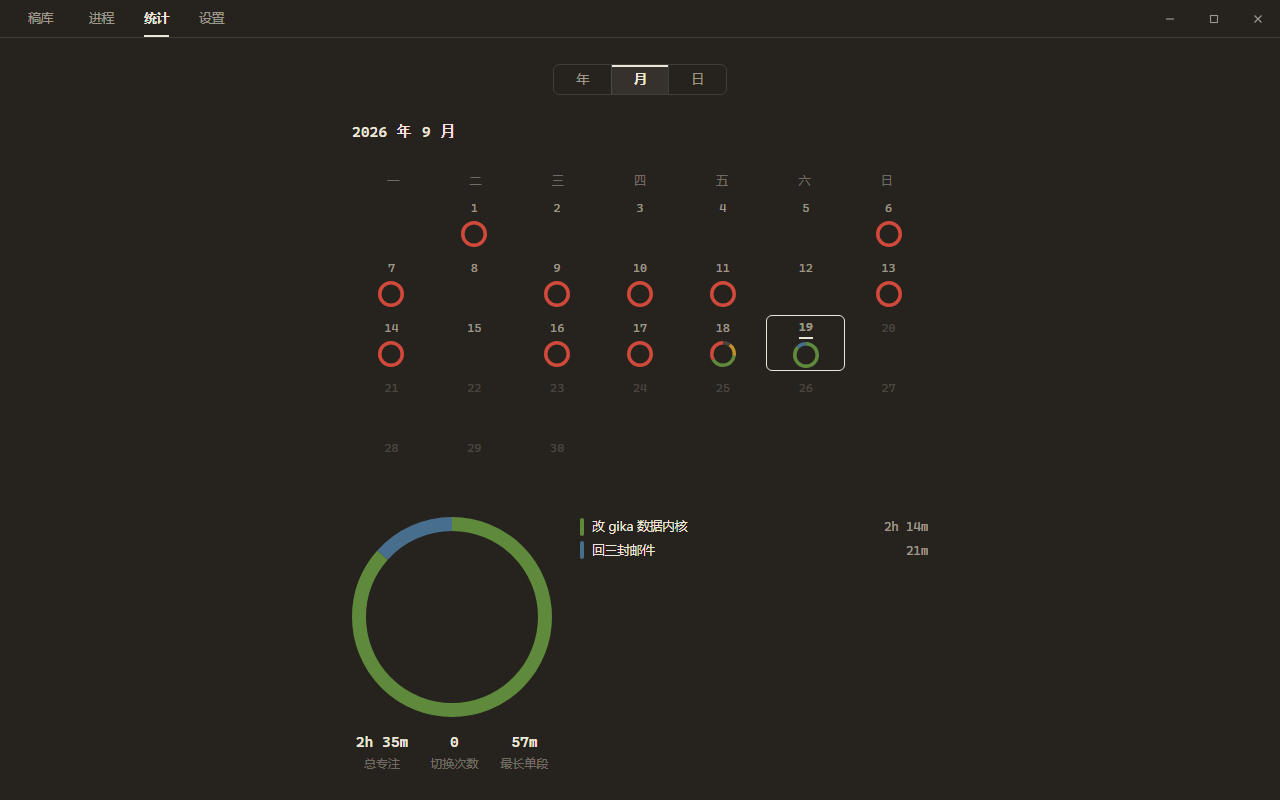
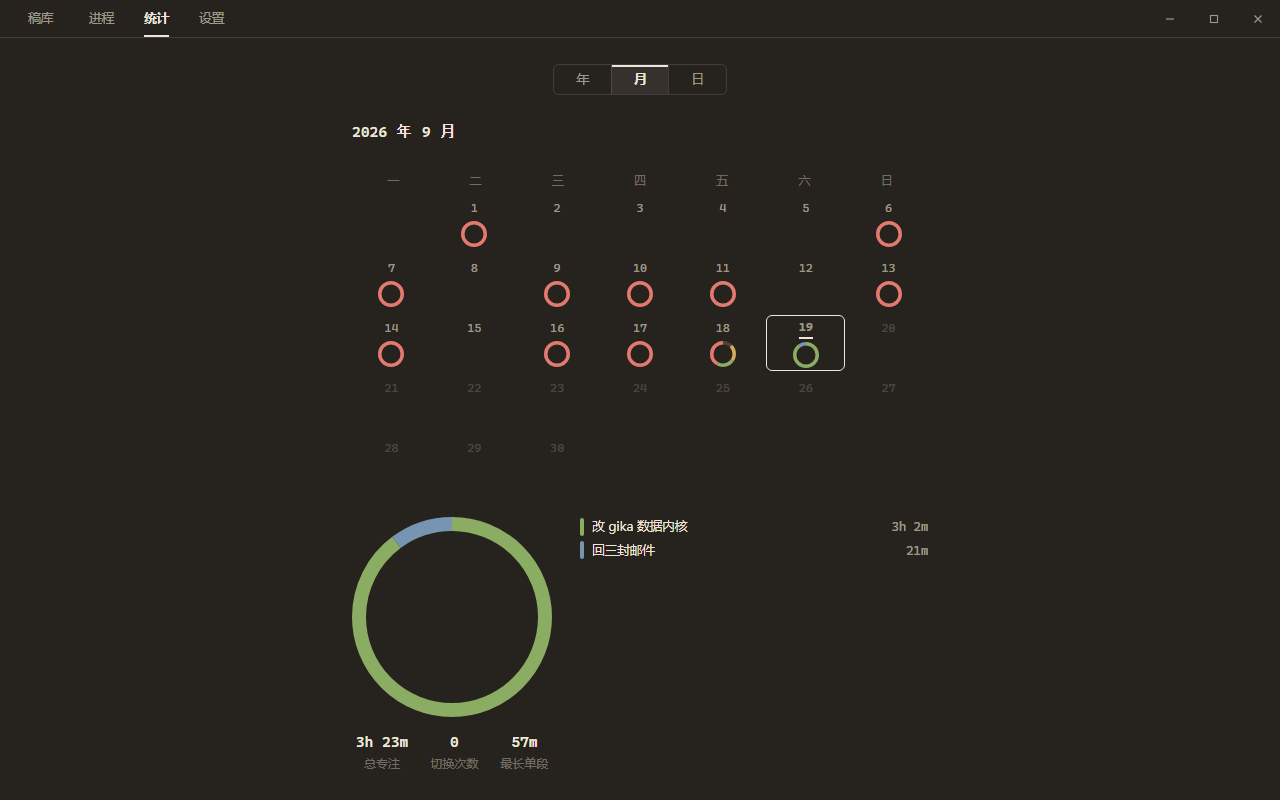
修复：色标板读生效主题单一来源（暗色截图重拍）+ 环数字等宽统一

diff --git a/src/pages/settings/SettingsPage.tsx b/src/pages/settings/SettingsPage.tsx
@@ -1,7 +1,7 @@
 import { useEffect, useRef, useState } from "react";
 import { data } from "../../api/data";
 import { system } from "../../api/system";
-import { act, useBoard } from "../../store/board";
+import { act, effectiveTheme, useBoard } from "../../store/board";
 
 /* ---------- 双态控件族（排版文字 → 原地变形；1px 下划线唯一编辑指示） ---------- */
 
@@ -207,7 +207,8 @@ const SECTIONS: [string, string][] = [
 ];
 
 export function SettingsPage() {
-  const { settings, palette } = useBoard();
+  const board = useBoard();
+  const { settings, palette } = board;
   const [activeSec, setActiveSec] = useState("slice");
   const [exported, setExported] = useState<string | null>(null);
   const rootRef = useRef<HTMLDivElement>(null);
@@ -251,7 +252,7 @@ export function SettingsPage() {
   };
 
   const themeNow = get("theme", "light");
-  const pal = themeNow === "dark" ? palette.dark : palette.light;
+  const pal = effectiveTheme(board) === "dark" ? palette.dark : palette.light; // 展示行跟生效主题
 
   return (
     <div className="settings-page" ref={rootRef} data-testid="settings-page">

diff --git a/src/store/board.ts b/src/store/board.ts
@@ -145,11 +145,15 @@ export function useBoard(): BoardState {
 
 let effectRefs = 0;
 
-/** 色标 → 当前主题 hex */
+/** 生效主题（单一来源）：URL override（截图用）优先，其次 settings.theme */
+export function effectiveTheme(s: BoardState): "light" | "dark" {
+  return (themeOverride ?? s.settings.theme) === "dark" ? "dark" : "light";
+}
+
+/** 色标 → 当前生效主题 hex */
 export function markHex(s: BoardState, slot: number | null): string | null {
   if (slot === null) return null;
-  const theme = (s.settings.theme === "dark" ? "dark" : "light") as "light" | "dark";
-  return s.palette[theme][slot] ?? null;
+  return s.palette[effectiveTheme(s)][slot] ?? null;
 }
 
 export function sliceMs(s: BoardState): number {

diff --git a/src/pages/stats/DonutRing.tsx b/src/pages/stats/DonutRing.tsx
@@ -1,4 +1,4 @@
-import { useBoard } from "../../store/board";
+import { effectiveTheme, useBoard } from "../../store/board";
 import type { ShareByColor } from "../../api/data";
 
 /** 环形统计（大环/迷你日环/月环共用）：shares 按色标聚合，null=中性灰 */
@@ -15,9 +15,8 @@ export function DonutRing({
   testid?: string;
   onClick?: () => void;
 }) {
-  const { palette, settings } = useBoard();
-  const theme = settings.theme === "dark" ? "dark" : "light";
-  const pal = palette[theme];
+  const board = useBoard();
+  const pal = board.palette[effectiveTheme(board)];
   const hex = (slot: number | null) =>
     slot === null ? "var(--ring-neutral)" : pal[slot] ?? "var(--ring-neutral)";
 

diff --git a/src/styles/app.css b/src/styles/app.css
@@ -317,6 +317,7 @@
 }
 .time-ring .ring-label {
   font-variant-numeric: tabular-nums;
+  font-family: "Cascadia Mono", Consolas, "JetBrains Mono", monospace;
   font-size: var(--fs-body);
   font-weight: 500;
   color: var(--ink);

diff --git a/docs/deviation.md b/docs/deviation.md
@@ -119,3 +119,8 @@ settings 表只种 M0 任务列明的 7 键；M4 新增键（idle_confirm=1、fo
 
 ### D30 · slice_minutes 改动只影响下一个环
 03 文档明文。当前环读数不变是特性；verify-m4-real 断言已按此口径。
+
+## 2026-09-19 · 视觉审校修复
+
+### D31 · 主题取值单一来源
+`effectiveTheme()`（src/store/board.ts）：URL override（截图用）> settings.theme。此前 applyPrefs 写 data-theme 用 override，而 markHex/DonutRing 读 settings.theme——`?theme=dark` 截图色标板错用亮板。现 markHex、DonutRing、设置页色板展示行全部收敛到 effectiveTheme；回归断言入 verify-m4 第 11 项（暗色条脊=暗板 rgb(117,149,178)，亮版抽查=#486E8D 无回归）。环内倒计时数字字体统一进等宽族（消两种数字气质并存）。
